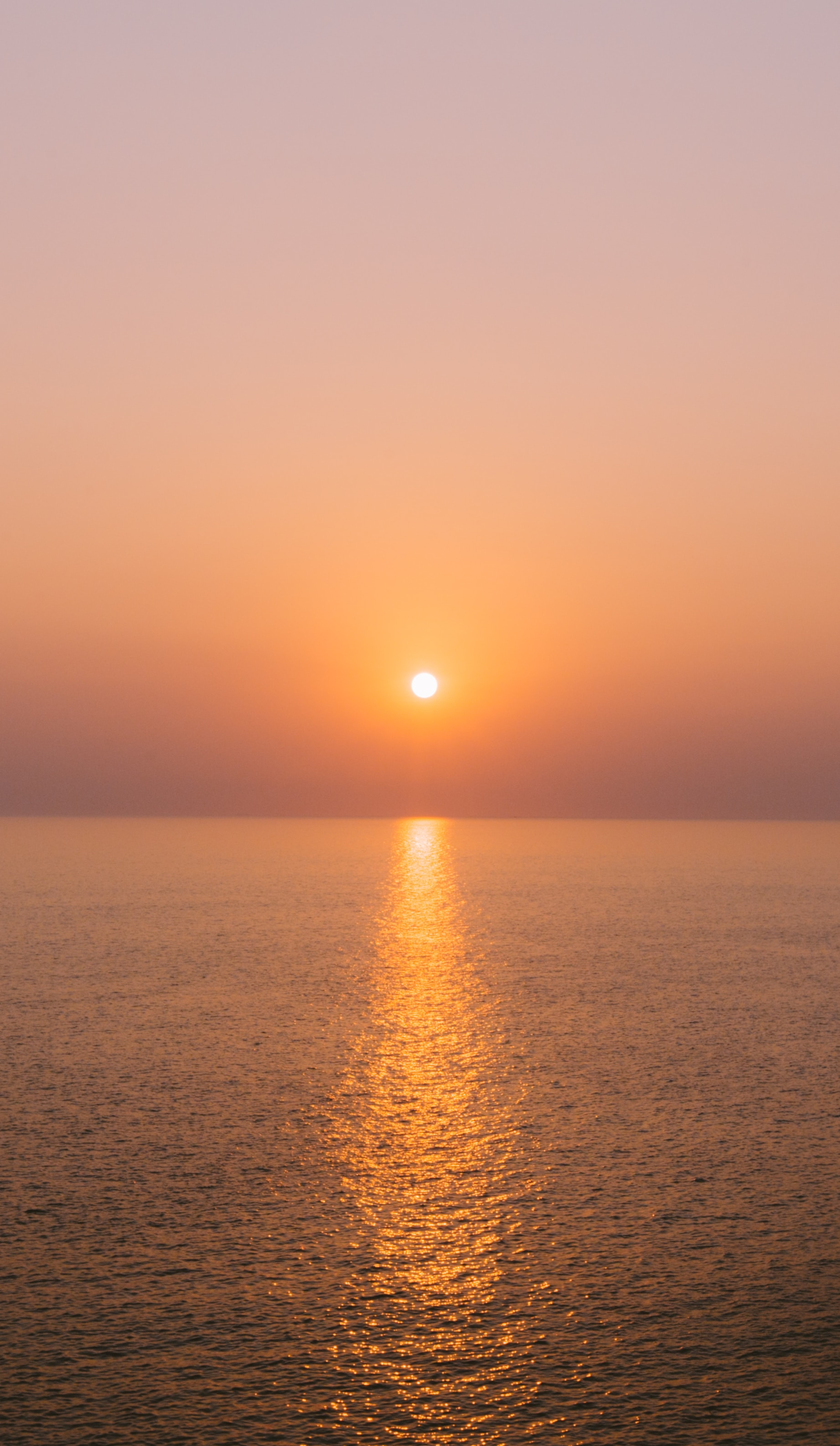
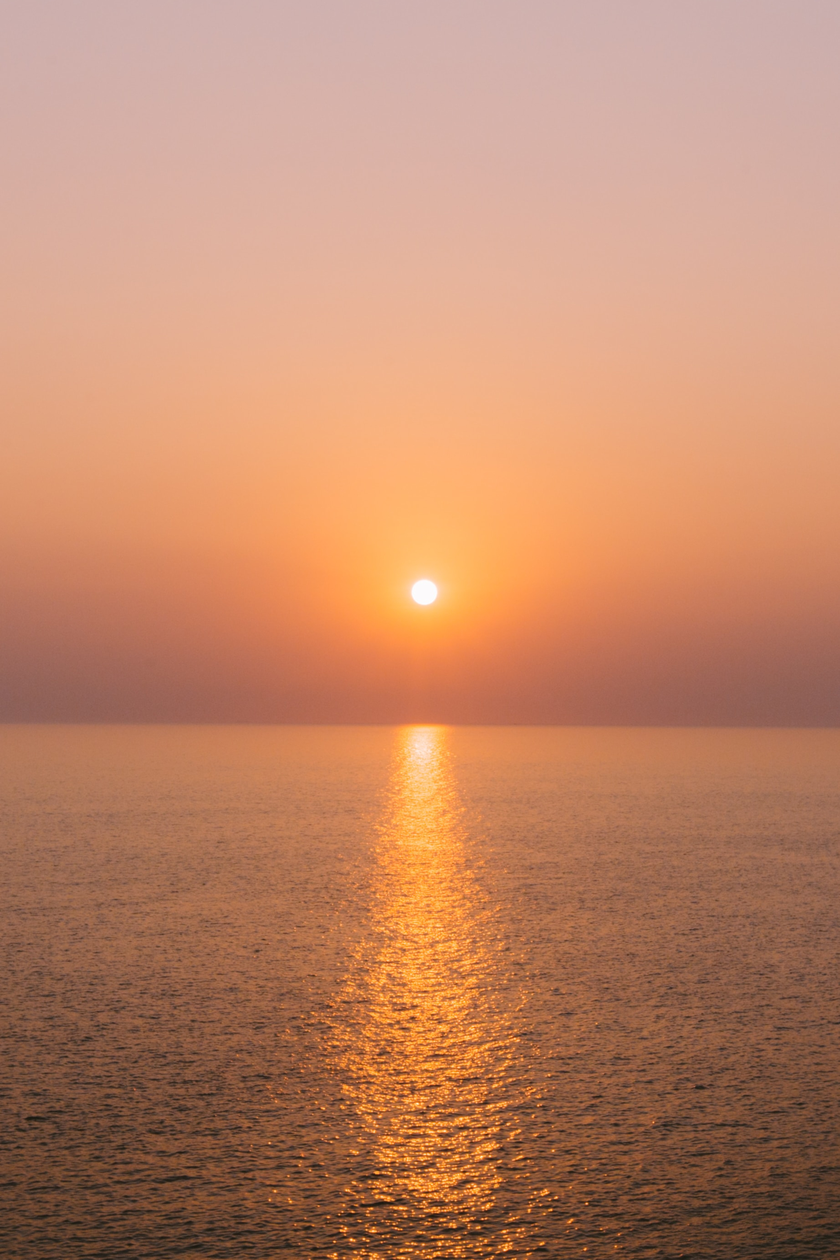
bg mobile

diff --git a/index.html b/index.html
@@ -48,31 +48,32 @@
         </ul>
       </div>
       <div id="sociallinks">
-        <a href="https://github.com/herculesricardo" target="_blank"
-          ><ion-icon name="logo-github"></ion-icon
-        ></a>
-        <a href="https://www.instagram.com/herculesricardo_/" target="_blank"
-          ><ion-icon name="logo-instagram"></ion-icon
-        ></a>
-        <a href="https://twitter.com/werckyz" target="_blank"
-          ><ion-icon name="logo-twitter"></ion-icon
-        ></a>
-        <a
-          href="https://www.linkedin.com/in/hercules-moura-9bb6821a1/"
-          target="_blank"
-          ><ion-icon name="logo-linkedin"></ion-icon
-        ></a>
+         <abbr title="Github">
+          <a href="https://github.com/herculesricardo" target="_blank">
+          <ion-icon name="logo-github"></ion-icon>
+          </a>
+        </abbr> 
+        <abbr title="Instagram">
+          <a href="https://www.instagram.com/herculesricardo_/" target="_blank">
+            <ion-icon name="logo-instagram"></ion-icon>
+          </a>
+        </abbr>
+        <abbr title="Twitter">
+          <a href="https://twitter.com/werckyz" target="_blank">
+            <ion-icon name="logo-twitter"></ion-icon>
+          </a>
+        </abbr>
+        <abbr title="Linkedin">
+          <a href="https://www.linkedin.com/in/hercules-moura-9bb6821a1/"target="_blank">
+            <ion-icon name="logo-linkedin"></ion-icon>
+          </a>
+        </abbr>
       </div>
       <div class="tecnologias">
-        <a
-          href="https://developer.mozilla.org/pt-BR/docs/Web/HTML"
-          target="_blank"
-        >
-          <ion-icon name="logo-html5"></ion-icon
-        ></a>
-        <a
-          href="https://developer.mozilla.org/pt-BR/docs/Web/CSS"
-          target="_blank"
+        <a href="https://developer.mozilla.org/pt-BR/docs/Web/HTML"target="_blank">
+          <ion-icon name="logo-html5"></ion-icon>
+        </a>
+        <a href="https://developer.mozilla.org/pt-BR/docs/Web/CSS"target="_blank"
           ><ion-icon name="logo-css3"></ion-icon
         ></a>
         <a
@@ -92,10 +93,8 @@
       type="module"
       src="https://unpkg.com/ionicons@7.1.0/dist/ionicons/ionicons.esm.js"
     ></script>
-    <script
-      nomodule
-      src="https://unpkg .com/ionicons@7.1.0/dist/ionicons/ionicons.js"
-    ></script>
+    <script nomodule src="https://unpkg .com/ionicons@7.1.0/dist/ionicons/ionicons.js">
+    </script>
     <script src="./script.js"></script>
   </body>
 </html>

diff --git a/style1.css b/style1.css
@@ -5,7 +5,7 @@
 }
 :root {
   --text-color: white;
-  --bg-url: url(./assets/bg-mobile.jpg);
+  --bg-url: url(./assets/bg-night.jpg);
   --stroke-color: rgba(255, 255, 255, 0.5);
   --surface-color: rgba(255, 255, 255, 0.05);
   --surface-color-hover: rgba(0, 0, 0, 0.02);
@@ -14,7 +14,7 @@
 }
 .light {
   --text-color: black;
-  --bg-url: url(./assets/bg-mobile-light.jpg);
+  --bg-url: url(./assets/bg-sun.jpg);
   --stroke-color: rgba(0, 0, 0, 0.5);
   --surface-color: rgba(0, 0, 0, 0.05);
   --surface-color-hover: rgba(0, 0, 0, 0.02);
@@ -22,7 +22,7 @@
   --switch-bg-url: url(./assets/sun.svg);
 }
 body {
-  background: var(--bg-url) no-repeat top center/cover;
+  background: var(--bg-url) no-repeat center center;
   background-attachment: fixed;
 }
 body * {
@@ -34,14 +34,12 @@ body * {
   width: 100%;
   max-width: 1080px;
   margin: 56px auto 0px auto;
-  
 }
 /* Botão inicio */
 ul {
   list-style: none;
 }
 ul li a {
-  
   margin: 10px 10px 10px 10px;
   display: flex;
   align-items: center;
@@ -61,7 +59,6 @@ ul li a {
 ul li a:hover {
   background: var(--surface-color-hover);
   border: 1.5px solid var(--text-color);
-  
 }
 #switch {
   position: relative;
@@ -133,4 +130,10 @@ ion-icon {
 #right:hover {
   -webkit-transform: scale(1.1);
   transform: scale(1.8);
+}
+@media (max-width: 1050px){
+  body {
+  background: var(--bg-url) no-repeat center center;
+  background-attachment: fixed;
+}
 }

diff --git a/style.css b/style.css
@@ -24,7 +24,7 @@
 }
 
 body {
-  background: var(--bg-url) no-repeat center;
+  background: var(--bg-url) no-repeat center center;
 
 }
 body * {
